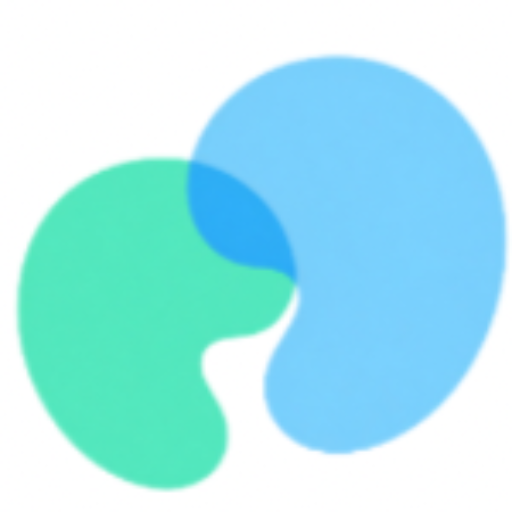
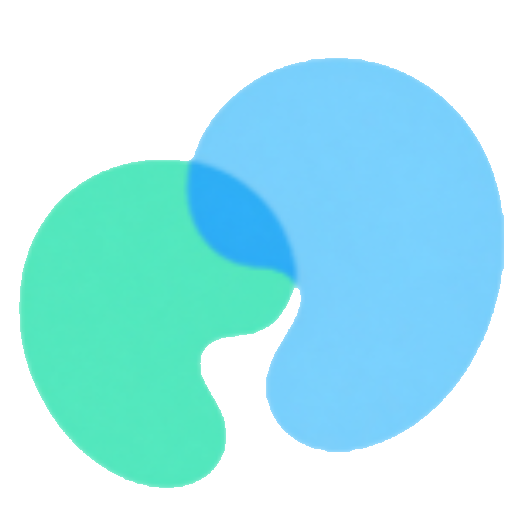
chore(assets): edit and add various brand images

diff --git a/src/pages/onboarding/OnboardingScreen.tsx b/src/pages/onboarding/OnboardingScreen.tsx
@@ -1,9 +1,8 @@
 import React, { useState, useRef, useCallback } from 'react';
-import { View, Text, TouchableOpacity, Animated, StyleSheet, Platform } from 'react-native';
+import { View, Text, TouchableOpacity, Animated, StyleSheet, Platform, Image } from 'react-native';
 import { SafeAreaView } from 'react-native-safe-area-context';
 import { LinearGradient } from 'expo-linear-gradient';
 import { buttons, typography, combineClasses } from '../../styles/theme';
-import { KidneyIcon } from '../../components/KidneyIcon';
 import { PathwayBackground } from '../../components/PathwayBackground';
 
 type OnboardingScreenProps = {
@@ -87,10 +86,16 @@ export const OnboardingScreen = ({ onGetStarted }: OnboardingScreenProps) => {
                 flexDirection: 'row',
                 alignItems: 'center',
               }}>
-              <View style={{ marginRight: 12, flexShrink: 0 }}>
-                <KidneyIcon className="shadow" size={48} color="#ffffff" />
-              </View>
-              <Text className="text-2xl font-normal text-white shadow-md">Transplant Compass</Text>
+              <Image
+                source={require('../../../assets/borders-3-stroke.png')}
+                style={{
+                  width: 60,
+                  height: 60,
+                  marginRight: 12,
+                  flexShrink: 0,
+                }}
+                resizeMode="contain"
+              />
             </View>
           </Animated.View>
 
@@ -108,7 +113,7 @@ export const OnboardingScreen = ({ onGetStarted }: OnboardingScreenProps) => {
                   typography.h2,
                   'mb-12 text-center font-semibold leading-tight text-white shadow-md'
                 )}>
-                Your personalized guide to navigating the transplant pathway
+                Your Ally in the Fight for a New Kidney
               </Text>
             </Animated.View>
 
